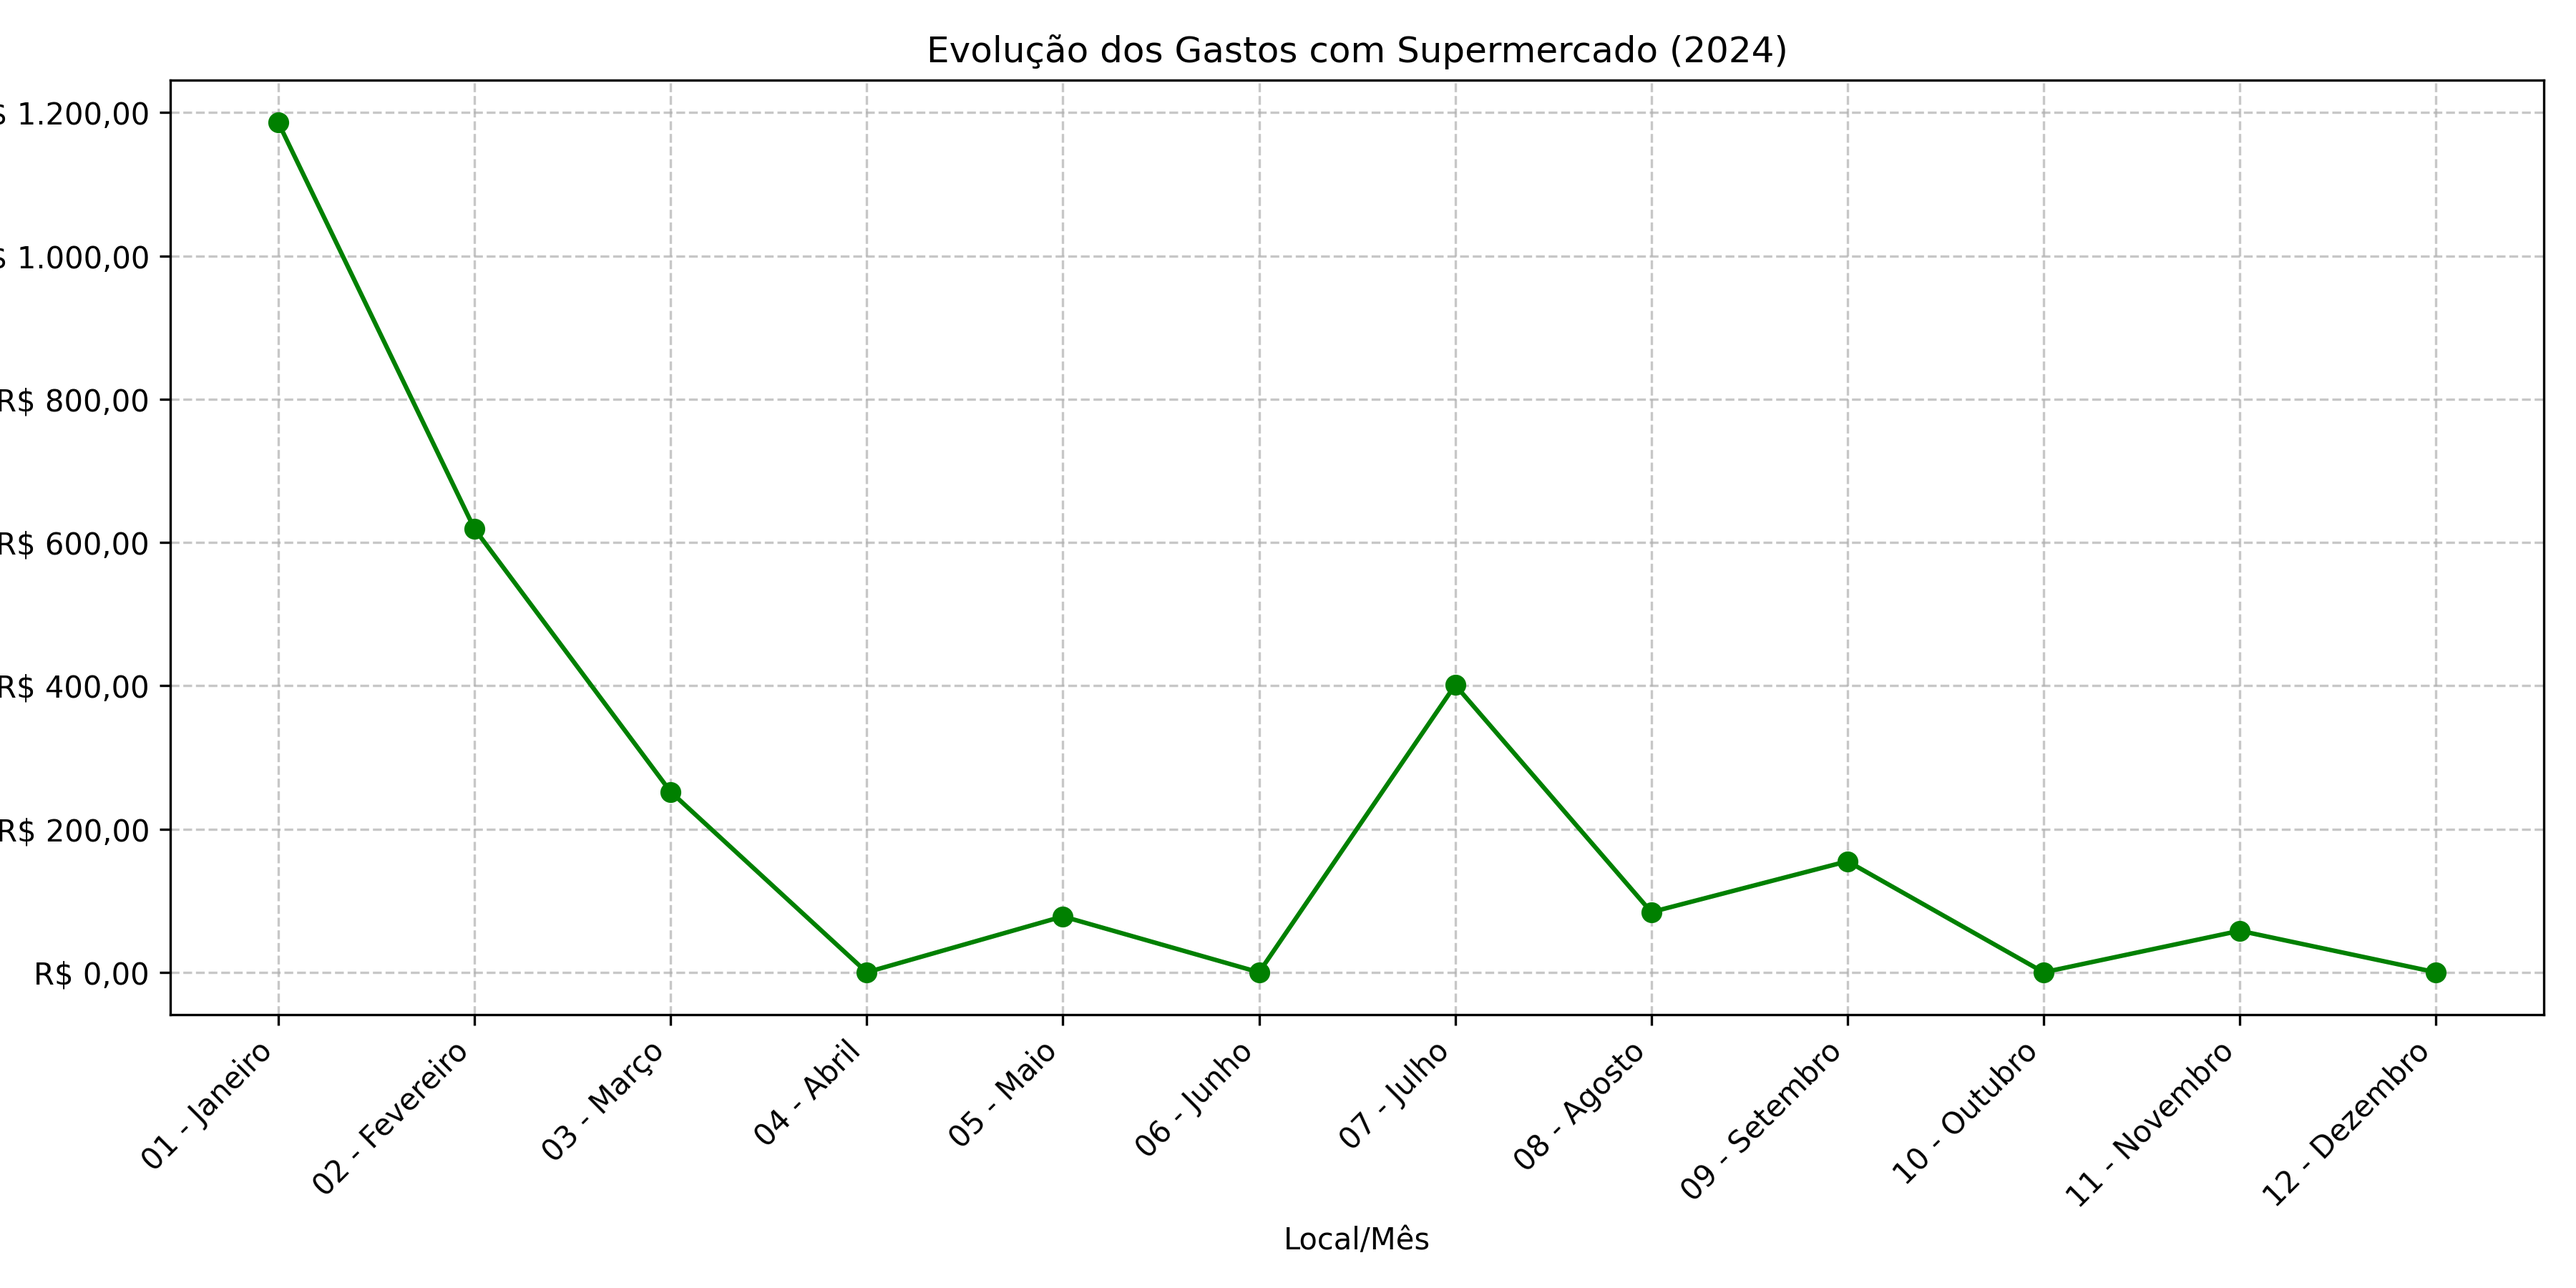
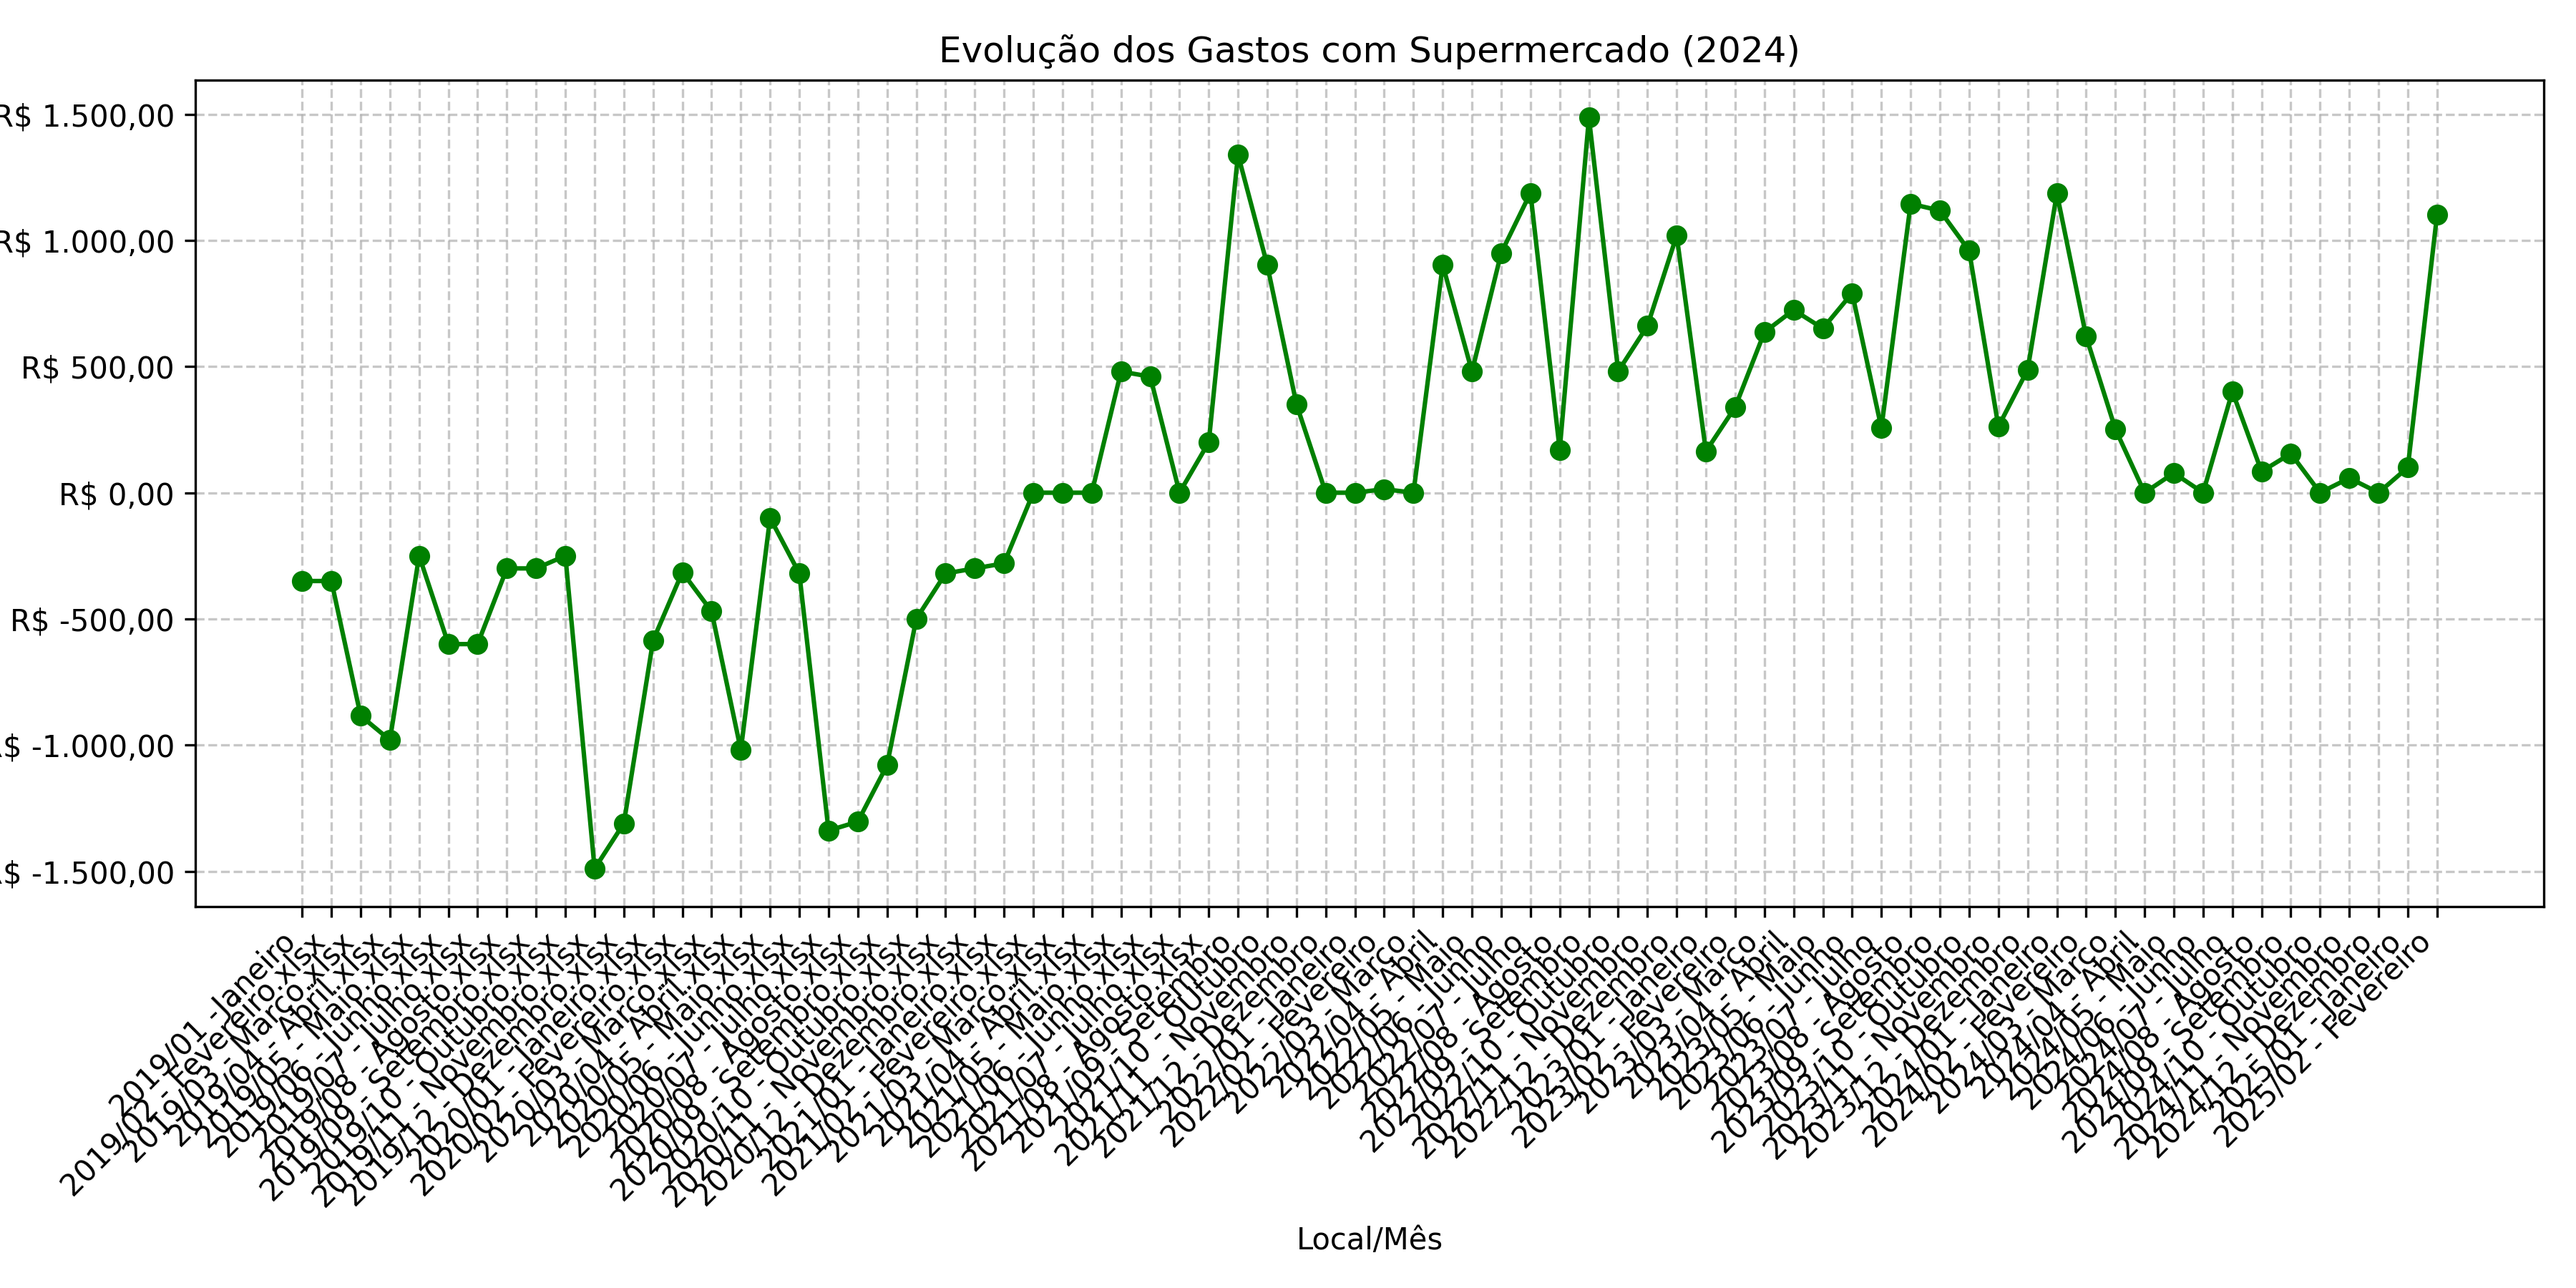
atualizacoes

diff --git a/grafico.py b/grafico.py
@@ -2,22 +2,43 @@ import pandas as pd
 import os
 import matplotlib.pyplot as plt
 
-diretorio = '/media/joao9aulo/dados/Dropbox/Gasto meses/2024'
+def ordenar_subdiretorios(subdiretorios):
+    """Ordena subdiretórios numericamente, ignorando não numéricos"""
+    ordenados = []
+    for dir in subdiretorios:
+        try:
+            # Tenta converter para inteiro (para ordenação numérica)
+            ordenados.append((int(dir), dir))
+        except ValueError:
+            # Mantém diretórios não numéricos no final
+            ordenados.append((float('inf'), dir))
+    
+    # Ordena primeiro pelos números, depois pelos não numéricos
+    ordenados.sort(key=lambda x: x[0])
+    return [dir for (_, dir) in ordenados]
+
+diretorio = '/media/joao9aulo/dados/Dropbox/Gasto meses/'
 
 meses = []
 gastos_supermercado = []
 
 # Percorre todos os subdiretórios
 for diretorio_atual, subdiretorios, arquivos in os.walk(diretorio):
+    subdiretorios[:] = ordenar_subdiretorios(subdiretorios)
     for arquivo in sorted(arquivos):  # Mantém a ordenação
-        if arquivo.endswith('.ods'):
+        if arquivo.endswith(('.ods', '.xlsx')):
             caminho_completo = os.path.join(diretorio_atual, arquivo)
+
+             # Determina o engine pelo tipo de arquivo
+            engine = 'odf' if arquivo.endswith('.ods') else 'openpyxl'
             
             # Ler arquivo
-            df = pd.read_excel(caminho_completo, engine='odf', header=None)
+            df = pd.read_excel(caminho_completo, engine=engine, header=None)
             
             # Filtrar (mantido igual)
-            mask = df[0].astype(str).str.strip().str.lower() == "relacionamentos"
+            mask = (
+            (df[0].astype(str).str.strip().str.lower() == "relacionamentos") |
+            (df[0].astype(str).str.strip().str.lower() == "gp"))
             df_supermercado = df.loc[mask].copy()
             
             if not df_supermercado.empty:
